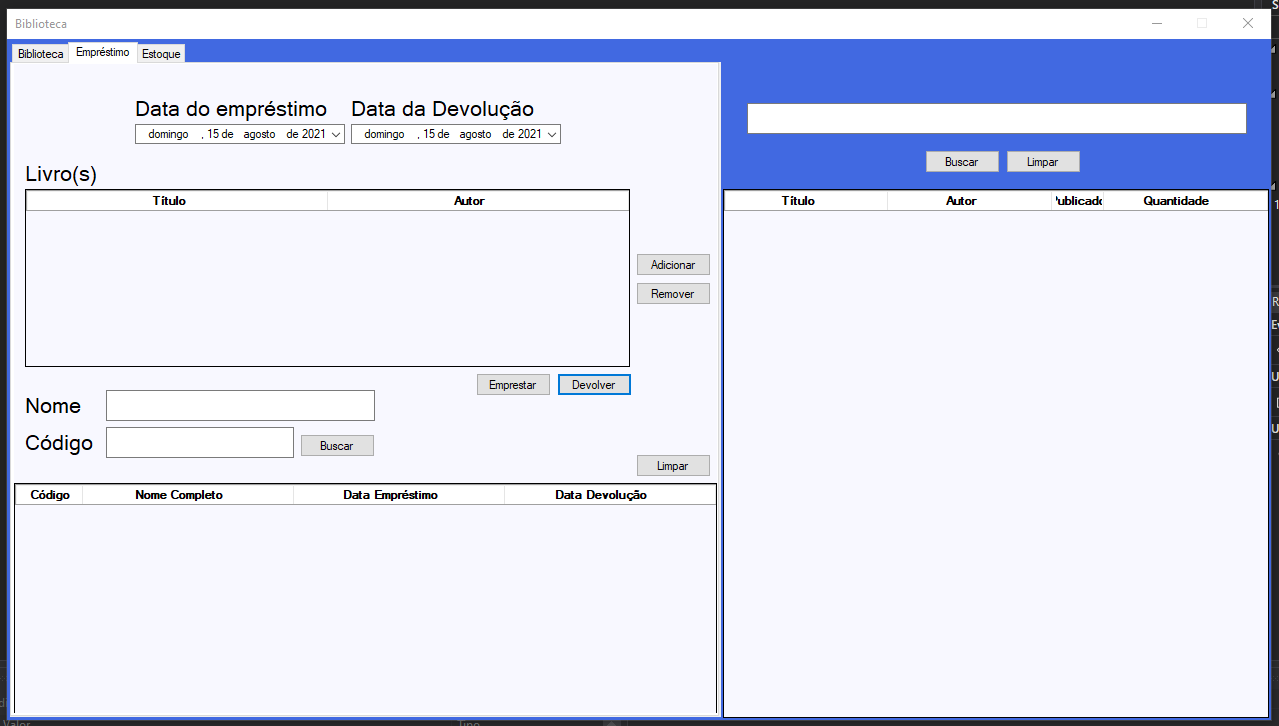
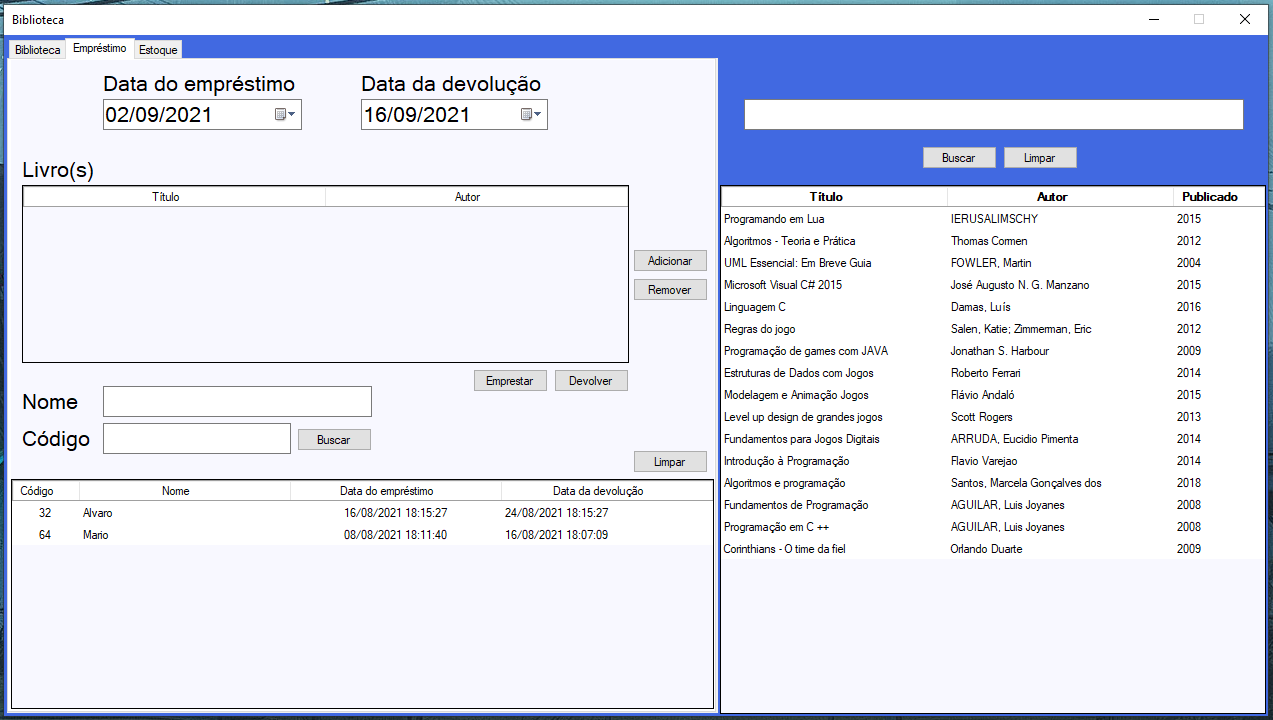
Projeto Concluido e avaliado

diff --git a/README.md b/README.md
@@ -4,23 +4,39 @@
 
 - Objetivo geral: O sistema tem por objetivo realizar o gerenciamento de livros de uma biblioteca.
 
-- Objetivo Especifico: Gerenciar emprestimo de livros, gerenciar devolução de livros, gerenciar o estoque de livros.
+- Objetivo Especifico: Visualização dos livros da biblioteca, gerenciar empréstimo de livros e gerenciar o estoque de livros.
 
-# Interface Grafica de Usuario
+# Interface Gráfica de Usuário
 
 ## **Versão final**
 
 - ## Biblioteca
 
-![](/Prints/BibliotecaV2.png)
+![](/Prints/BibliotecaInicial.png)
+
+- ### Selecionando livro
+
+![](/Prints/SelecionandoLivro.png)
+
+- ### Buscando livro
+
+![](/Prints/BuscandoLivro.png)
+
+- ## Senha para Acesso padrão [8664] Bibliotecario [3264] Atendente
+
+![](/Prints/SenhaAcesso.png)
 
 - ## Emprestimo
 
-![](/Prints/EmprestimoV2.png)
+![](/Prints/Emprestimo.png)
+
+- ### Buscando emprestimo
+
+![](/Prints/BuscandoEmprestimo.png)
 
 - ## Estoque
 
-![](/Prints/EstoqueV2.png)
+![](/Prints/Estoque.png)
 
 # UML
 
@@ -63,16 +79,4 @@
 
 ![](/Astah/DiagramaMaquinaEstadoLivro.png)
 
-- ## Biblioteca - Onde são mostrada a informação do livro, Pesquisa e Catalogo de livro da Biblioteca. Estado Vazio inicial.
-
-![](/Prints/Biblioteca.png)
-
-- ## Emprestimo - Para realizar um emprestimo ou devolução de livros da biblioteca. Estado vazio inicial para preenchimento.
-
-![](/Prints/Emprestimo.png)
-
-- ## Estoque - Para gerenciar todo o estoque de livros desde adicionar ou remover da biblioteca. Estado Vazio inicial.
-
-![](/Prints/Estoque.png)
-
-# **...**
+#### **Avaliação final do projeto - 9.0**
